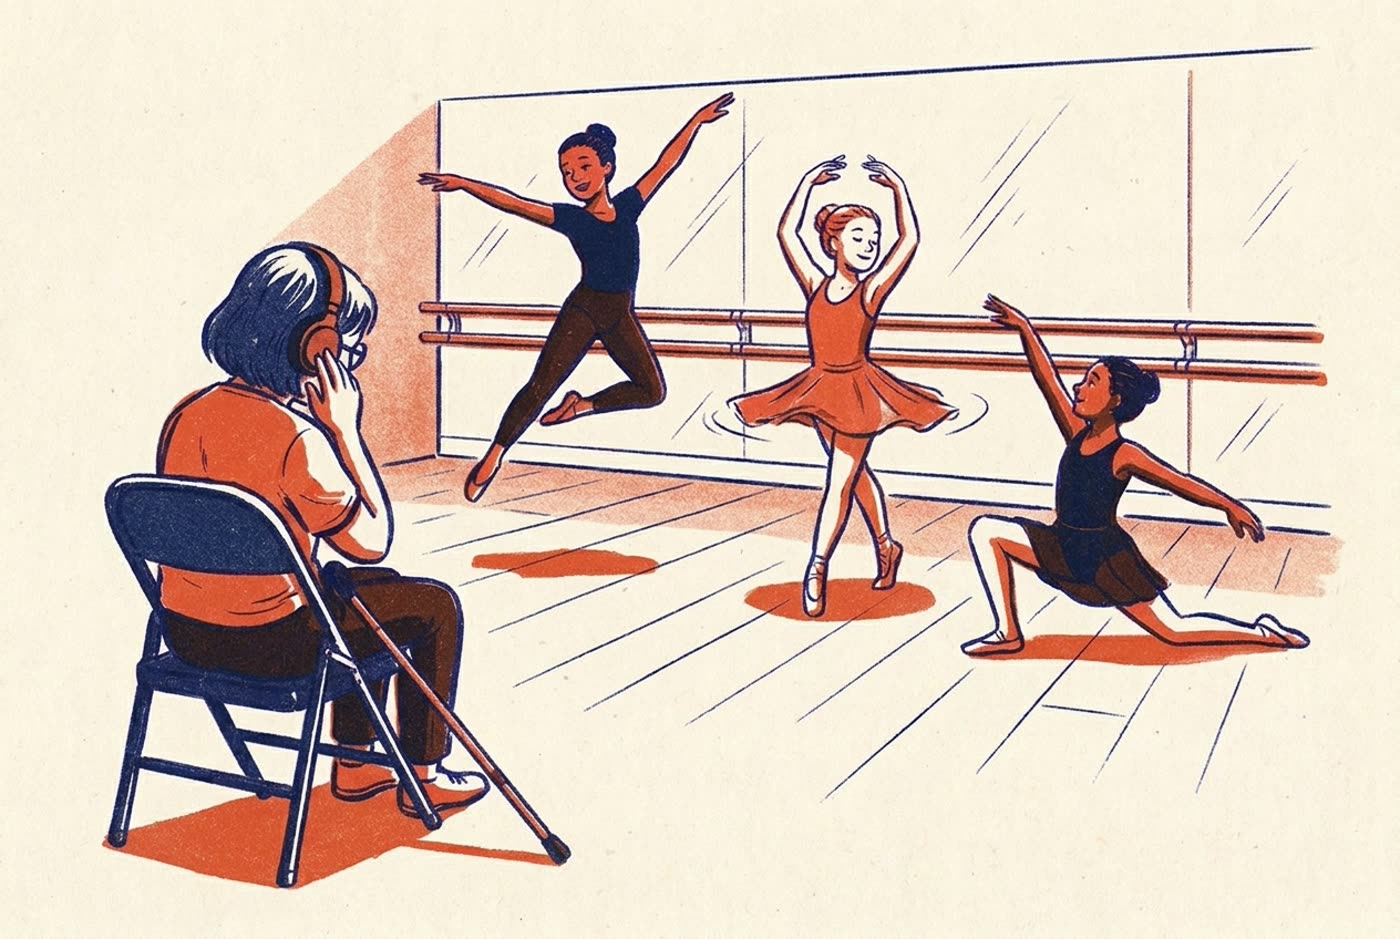
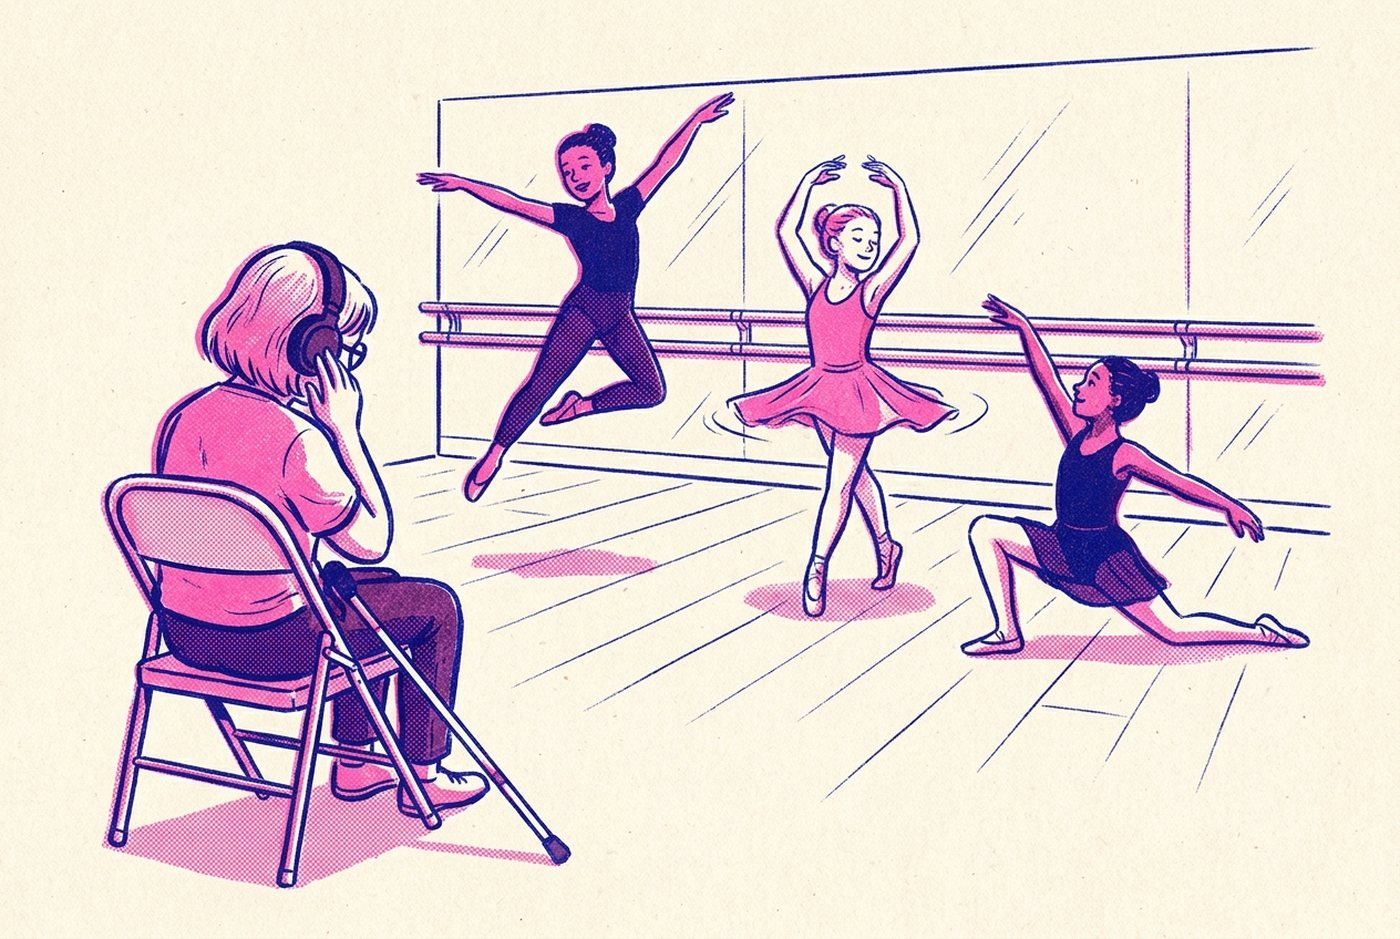
Site: navy and pink inks (Andrii's pick), the pink-and-blue recital print, narration lines read as describer's notes, mockups kept out of deploys
Claude-Session: https://claude.ai/code/session_01EuDPJE1GrSNBc779TNStPQ

diff --git a/web/studio.css b/web/studio.css
@@ -5,7 +5,7 @@
    styles the player and the reveal; this file sets the tokens they use. */
 
 :root {
-  --paper: #f3ede2; --paper-2: #e9e1d2; --navy: #1e2a44; --red: #e0522f; --red-text: #a63a1c;
+  --paper: #f3ede2; --paper-2: #e9e1d2; --navy: #1e2a44; --red: #ff48b0; --red-text: #b5106f;
   --muted: #4b5266; --line: #d3c8b4; --on-navy: #f7f2e8;
   --bg: var(--paper); --surface: #fbf8f2; --ink: var(--navy); --accent: var(--navy); --accent-ink: var(--on-navy);
   --accent-soft: #e3dccd; --focus: #1f5fbf;
@@ -14,7 +14,7 @@
 }
 @media (prefers-color-scheme: dark) {
   :root:not([data-theme="light"]) {
-    --paper: #15171d; --paper-2: #1c1f27; --navy: #f1ebdf; --red: #ff7652; --red-text: #ff9475;
+    --paper: #15171d; --paper-2: #1c1f27; --navy: #f1ebdf; --red: #ff6cc0; --red-text: #ff8fcf;
     --muted: #b8bcc7; --line: #343845; --on-navy: #15171d; --surface: #1c1f27; --accent-soft: #2a2e38; --focus: #8fb8ff;
   }
 }
@@ -143,3 +143,14 @@ ol.lines > li[aria-current="true"] { border-color: var(--red); box-shadow: inset
 
 @media (prefers-reduced-motion: reduce) { .frame img, .frame::before { transform: none !important; } .playhead { display: none; } }
 @media (forced-colors: active) { .btn, .board .style, .track, .player { border: 2px solid ButtonText; } .hero h1 .hl::before { display: none; } .seg span { background: Highlight; } }
+
+/* narration lines read as a describer's notes, not lyric cards */
+.board li { padding: 1.3rem 0; border-bottom-width: 1px; }
+.board { border-top-width: 2px; }
+.board blockquote { font: 400 clamp(1.2rem, 2vw, 1.5rem)/1.45 var(--sans); letter-spacing: 0; }
+.board blockquote p { border-left: 3px solid var(--red); padding-left: 1rem; }
+.board blockquote p::before, .board blockquote p::after { content: none; }
+.board .style { box-shadow: none; text-transform: none; letter-spacing: 0; font-size: 1rem; background: transparent; color: var(--navy); padding: 0; border-radius: 0; font-weight: 800; }
+.track-cap .say { font-family: var(--sans); font-weight: 400; font-style: italic; font-size: clamp(1.1rem, 1.9vw, 1.35rem); }
+.wave .duck { opacity: 0.85; }
+.hero h1 .hl::before { background: color-mix(in srgb, var(--red) 38%, transparent); opacity: 1; mix-blend-mode: normal; }

diff --git a/web/youtube-demo/index.html b/web/youtube-demo/index.html
@@ -15,7 +15,7 @@
   }
   @media (prefers-color-scheme: dark) {
     :root { --bg: #141318; --panel: #1d1b23; --ink: #eeeaf2; --muted: #a8a2b2; --line: #2e2b36;
-            --accent: #ff9475; --accent-soft: #2a2e38; --caption-bg: #000000; --caption-ink: #ffffff; --cut: #948ea4; }
+            --accent: #ff8fcf; --accent-soft: #2a2e38; --caption-bg: #000000; --caption-ink: #ffffff; --cut: #948ea4; }
   }
   * { box-sizing: border-box; }
   body { margin: 0; background: var(--bg); color: var(--ink); font: 17px/1.55 "Atkinson Hyperlegible Next", system-ui, -apple-system, "Segoe UI", sans-serif; }
